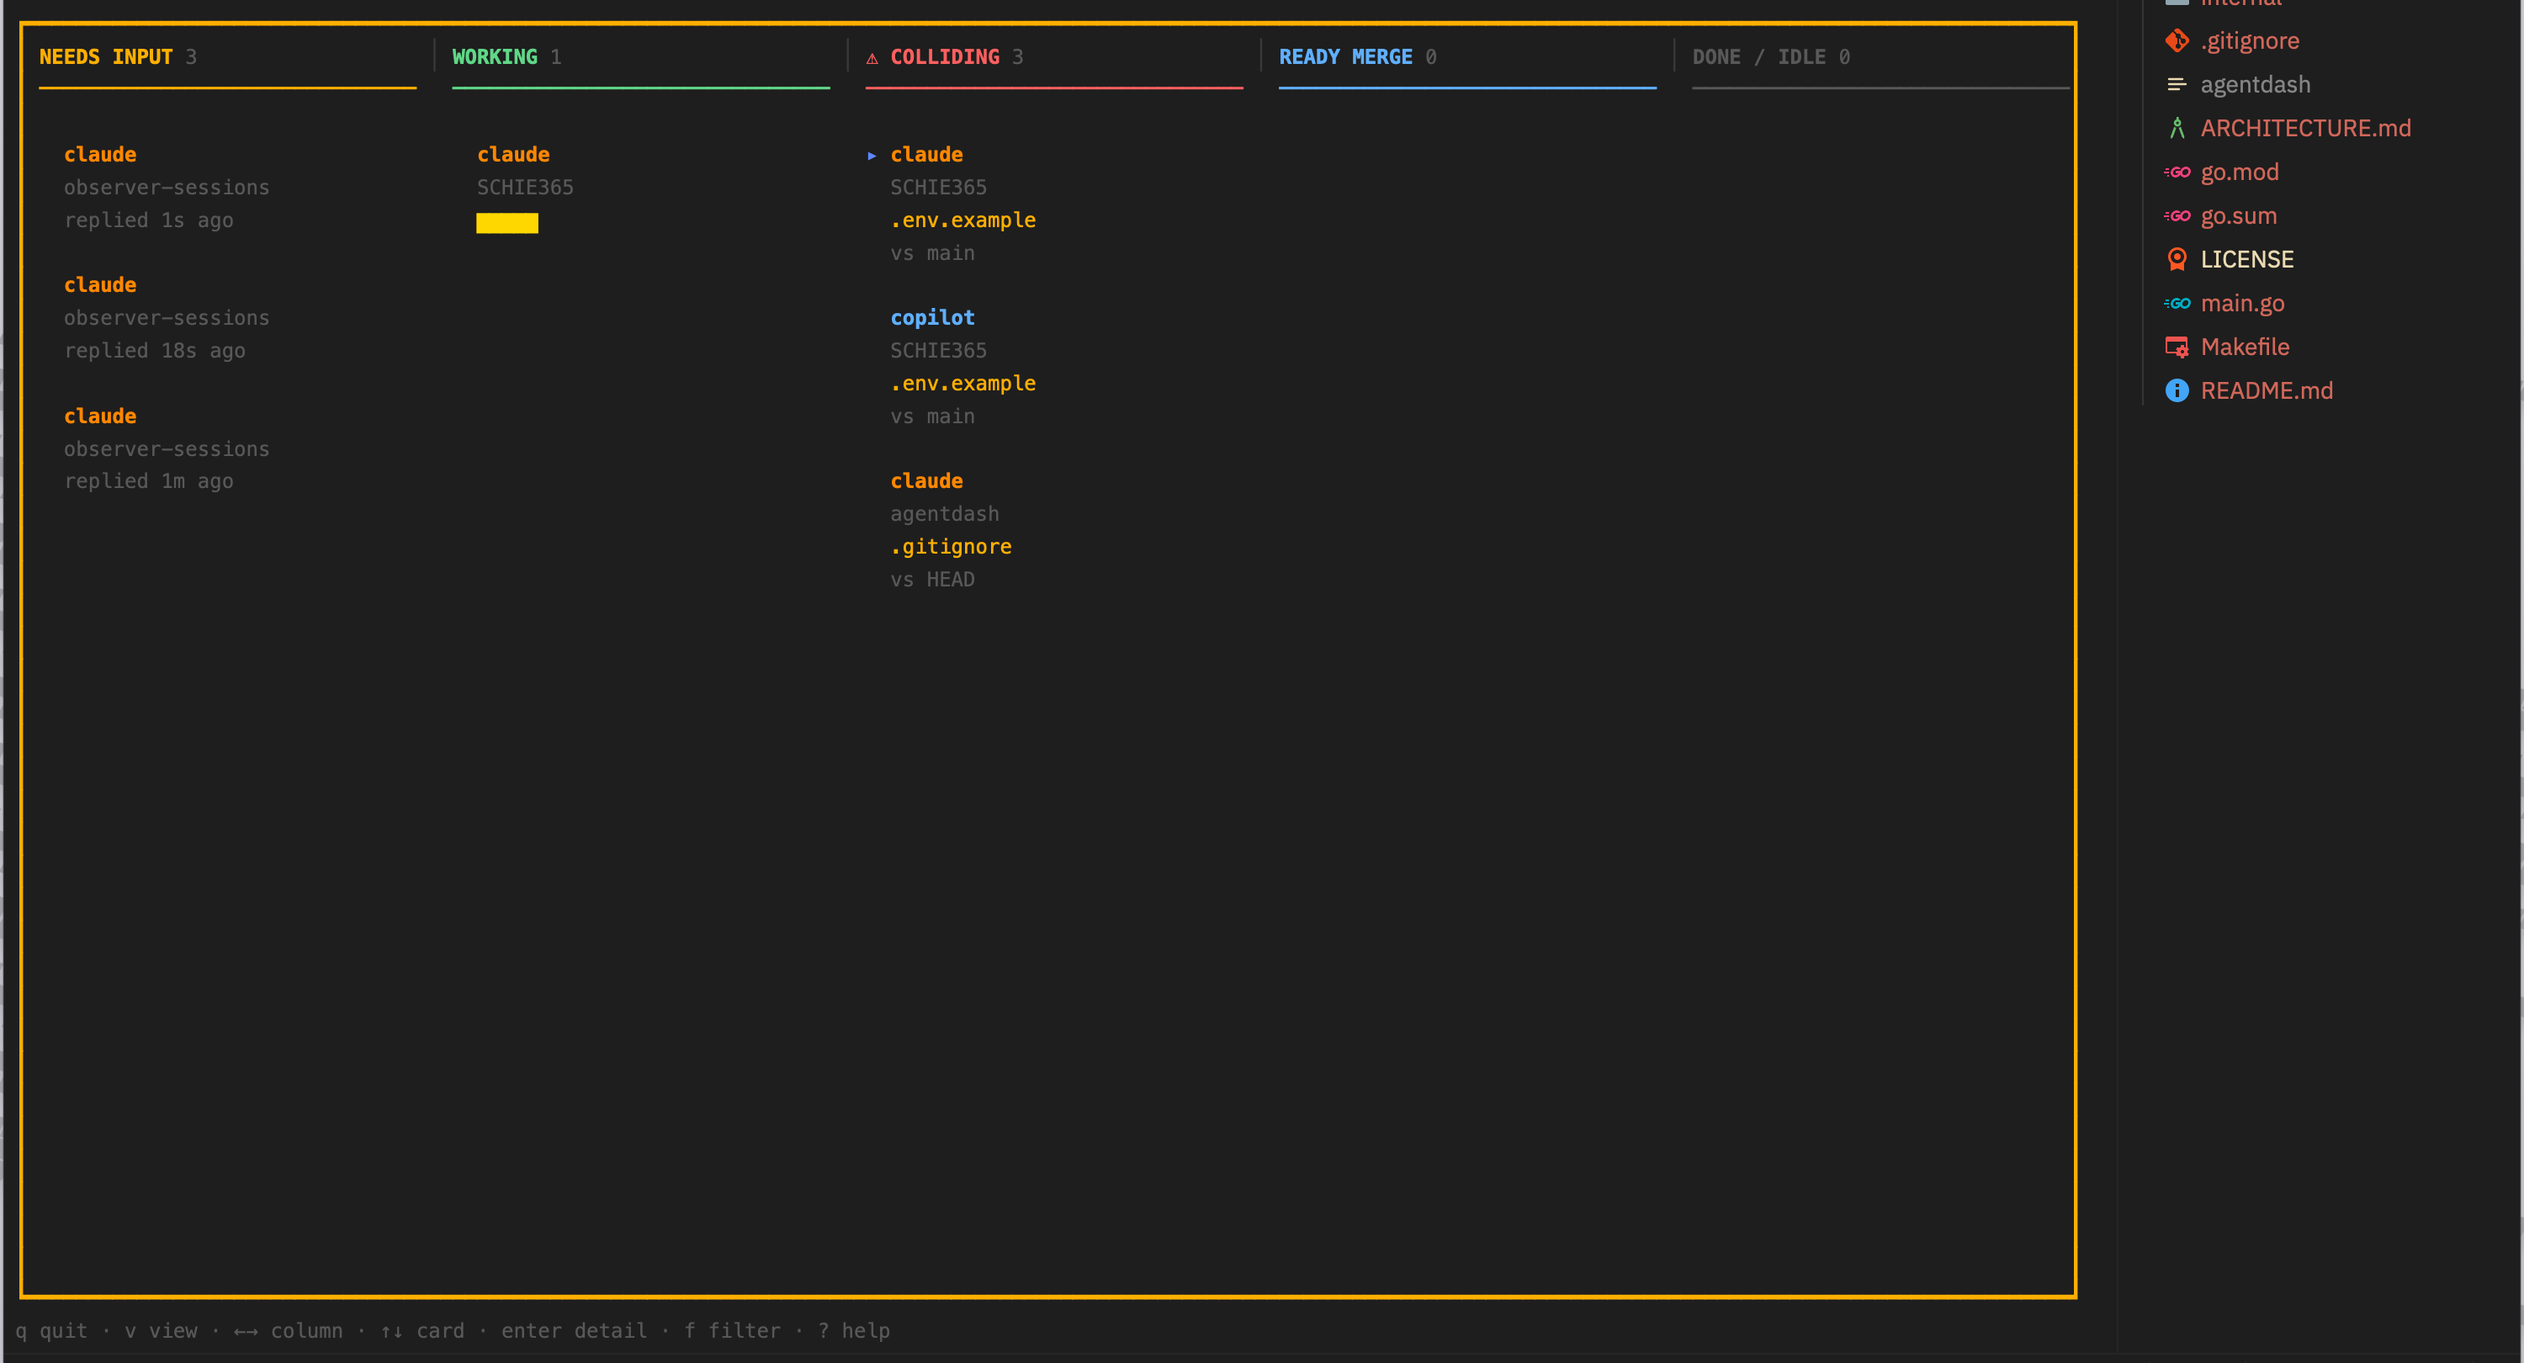
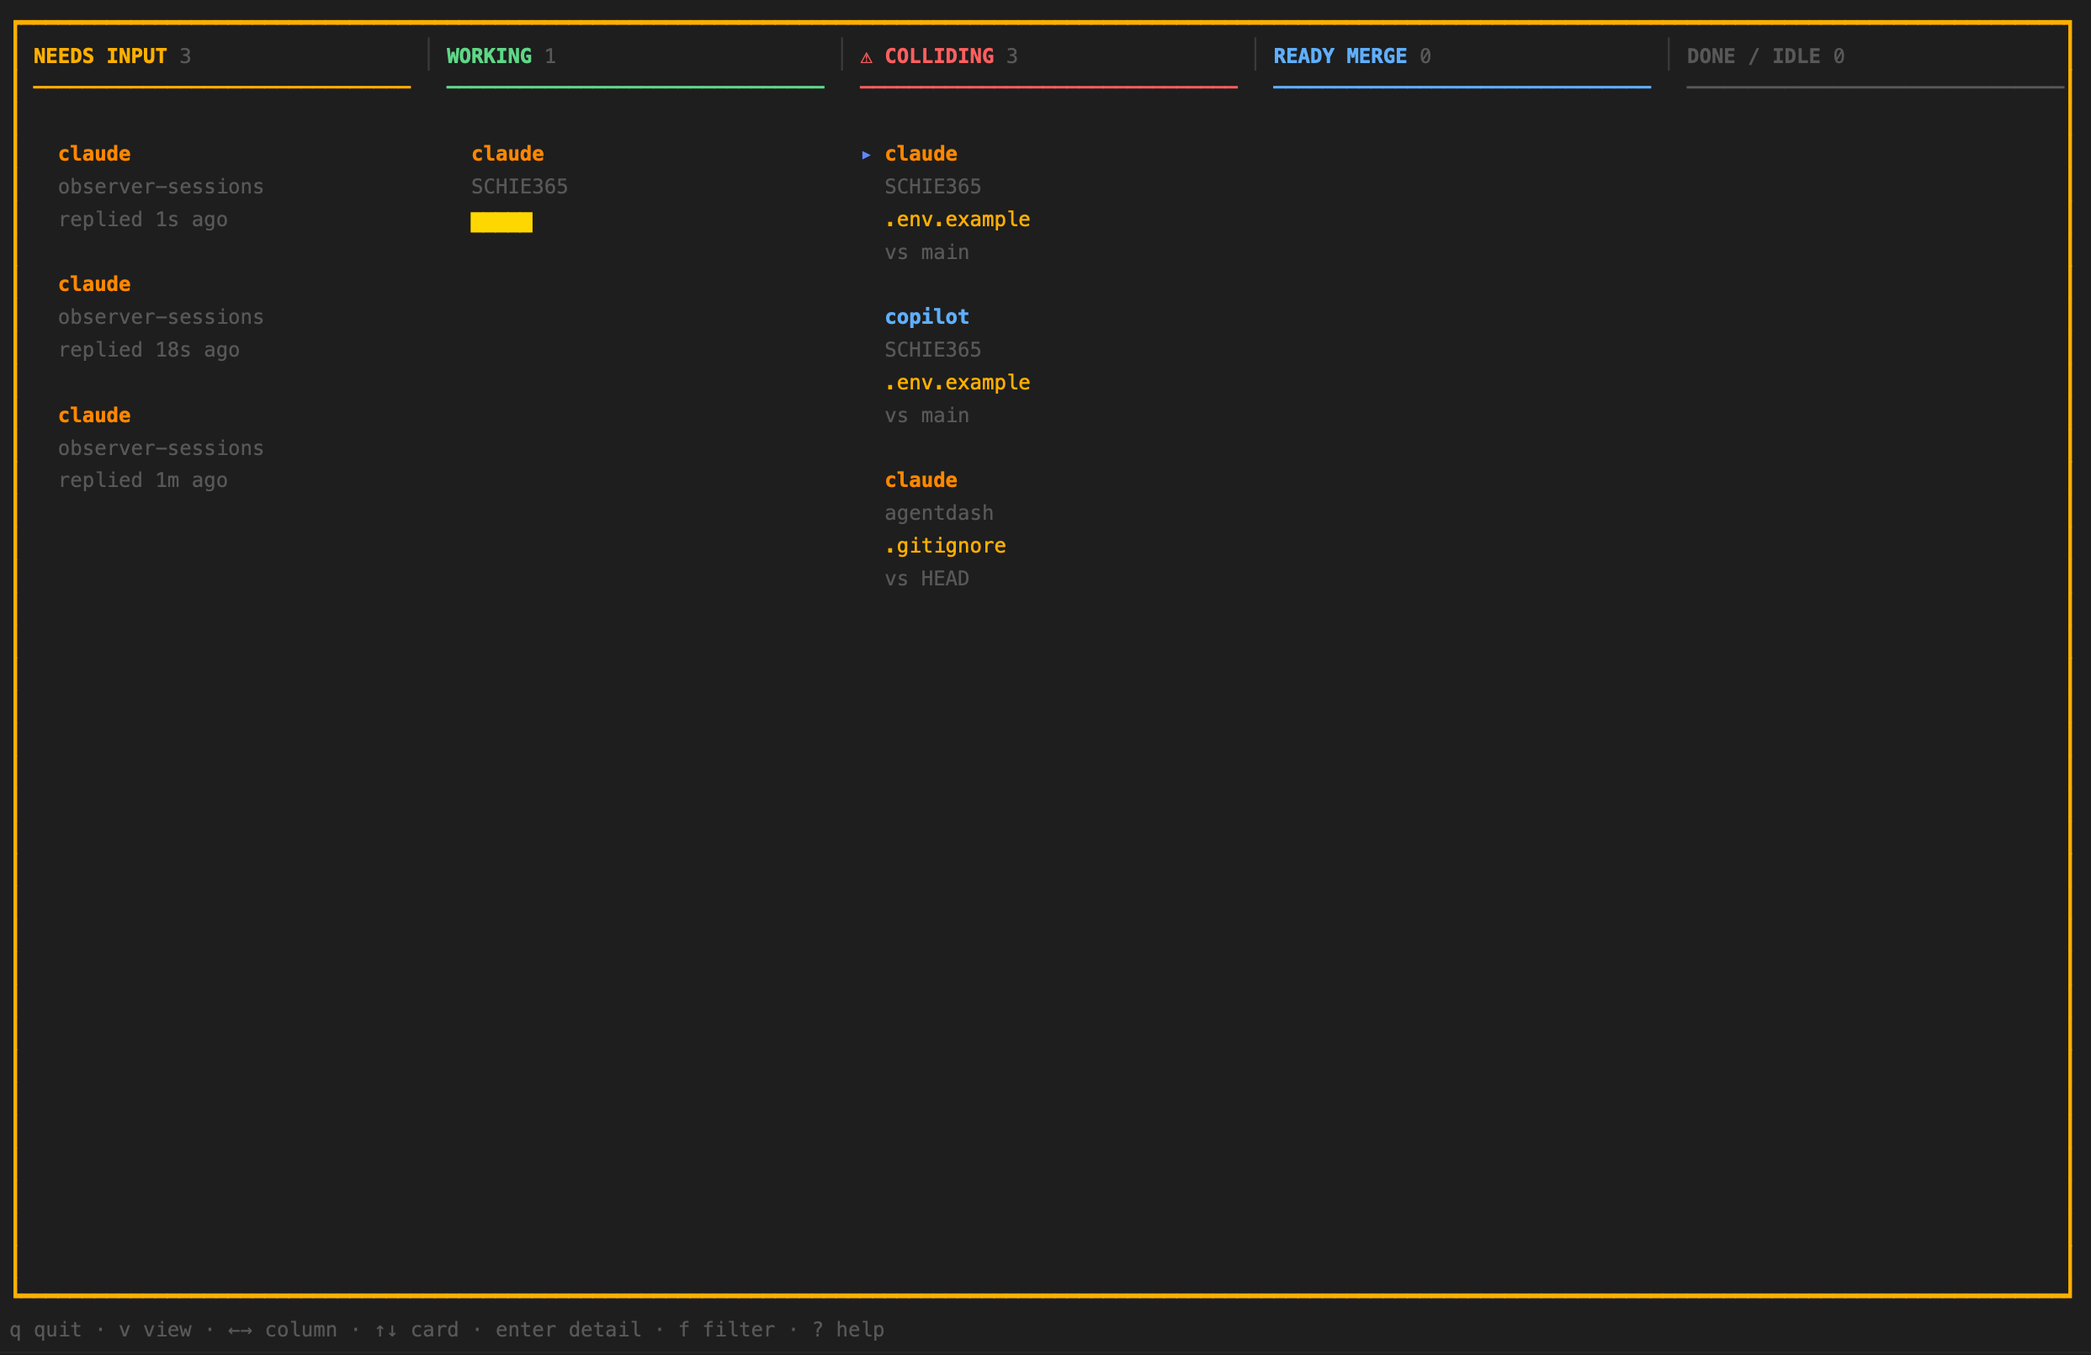
docs: remove references to similar tools; crop screenshots
Strip all mentions of comparable/observer tools (lazyagent, Claude Squad,
agent-deck, lazygit) from README, ARCHITECTURE, and source comments —
including the positioning comparison table, the prior-art credits section,
and the optional lazygit launch keybinding in the design doc. Comments now
describe intent on their own terms.

Also updates the Fleet/Board screenshots to cropped versions.

diff --git a/internal/tui/view.go b/internal/tui/view.go
@@ -739,7 +739,7 @@ func (m model) renderEmptyState(width, bodyHeight int) string {
 }
 
 // renderHeader draws the full-width banner: brand, session count, filter, and
-// time window — lazyagent's purple title bar.
+// time window in a purple title bar.
 func (m model) renderHeader() string {
 	brandStyle := lipgloss.NewStyle().Bold(true).Foreground(lipgloss.Color("231")).Background(colAccent).Padding(0, 1)
 	metaStyle := lipgloss.NewStyle().Foreground(lipgloss.Color("231")).Background(lipgloss.Color("60")).Padding(0, 1)
@@ -1139,7 +1139,7 @@ func (m model) logsBody(width int) string {
 		}
 		return labelStyle.Render("No conversation events found in the transcript.")
 	}
-	// Restrained label-column style (lazyagent): a muted fixed-width speaker
+	// Restrained label-column style: a muted fixed-width speaker
 	// label, with the wrapped message text aligned in a hanging indent beside
 	// it. Calm, scannable; no colored bubbles.
 	const labelW = 8
@@ -1198,7 +1198,7 @@ func terminalBody(s session.Session) string {
 
 // --- helpers ---
 
-// kvLabelWidth aligns all detail values to one column, lazyagent-style.
+// kvLabelWidth aligns all detail values to one column.
 const kvLabelWidth = 11
 
 func kv(k, v string) string {
@@ -1206,7 +1206,7 @@ func kv(k, v string) string {
 }
 
 // section renders a section title followed by a faint full-width rule and a
-// blank line of breathing room, for a calm lazyagent-style detail panel.
+// blank line of breathing room, for a calm, readable detail panel.
 func section(title string, width int) string {
 	rule := width - 2
 	if rule < 0 {
@@ -1228,8 +1228,8 @@ func writeLines(b *strings.Builder, style lipgloss.Style, lines ...string) {
 	}
 }
 
-// activityColor maps each fine-grained state to a color, following lazyagent's
-// convention of a distinct hue per state so the list reads at a glance.
+// activityColor maps each fine-grained state to a color — a distinct hue per
+// state so the list reads at a glance.
 func activityColor(a agent.Activity) lipgloss.Color {
 	switch a {
 	case agent.ActivityThinking:

diff --git a/internal/agent/codex/codex.go b/internal/agent/codex/codex.go
@@ -282,7 +282,7 @@ func headLines(path string, n int) ([]string, error) {
 
 // ComputeMetrics implements agent.Metricser. Codex rollouts record message
 // turns and tool/exec calls but do NOT include token counts, so tokens/cost
-// are left zero (shown as unavailable, like lazyagent does for such agents).
+// are left zero (shown as unavailable for such agents).
 func (a *Adapter) ComputeMetrics(sourceFile string) (agent.Metrics, error) {
 	f, err := os.Open(sourceFile)
 	if err != nil {

diff --git a/internal/agent/agent.go b/internal/agent/agent.go
@@ -17,8 +17,8 @@ import (
 )
 
 // Activity is the live state of an agent session, classified from the tail of
-// its transcript. The fine-grained states mirror the vocabulary popularized by
-// lazyagent so that a glance at the list tells you what each agent is doing.
+// its transcript. The fine-grained states give the list a consistent vocabulary
+// so that a glance tells you what each agent is doing.
 type Activity string
 
 const (

diff --git a/README.md b/README.md
@@ -21,9 +21,9 @@ When you run several agents in parallel (each in its own git worktree), the thin
 that ruins your day is two agents editing the same file. AgentDash is built around
 that problem:
 
-- **Monitors all your agents** from one dashboard, observe-only (like lazyagent).
+- **Monitors all your agents** from one dashboard, observe-only.
 - **Correlates** each agent to its git worktree by matching the agent's working
-  directory to the worktree path — so you see live activity *and* concrete git
+  directory to the worktree path — so you see live activity _and_ concrete git
   output side by side.
 - **Cross-worktree collision detection** — flags when two agents have touched the
   same file, before you hit a merge conflict.
@@ -39,14 +39,14 @@ that problem:
 
 ## Supported agents
 
-| Agent | Session source | Status |
-| --- | --- | --- |
-| Claude Code | `~/.claude/projects/<slug>/<id>.jsonl` | ✅ verified |
-| GitHub Copilot CLI | `~/.copilot/session-state/<id>/` (`COPILOT_HOME`) | ✅ verified |
-| Codex CLI | `~/.codex/sessions/…` (`CODEX_HOME`) | ✅ verified |
-| opencode | `~/.local/share/opencode/…` (`OPENCODE_DATA_DIR`) | ⚠ from source schema, not live-tested |
-| Kimi CLI | `~/.kimi-code/…` (`KIMI_CODE_HOME`) | ⚠ tolerant parser, not live-tested |
-| any other | running process (name + working dir) | ✅ generic process-scan fallback |
+| Agent              | Session source                                    | Status                                 |
+| ------------------ | ------------------------------------------------- | -------------------------------------- |
+| Claude Code        | `~/.claude/projects/<slug>/<id>.jsonl`            | ✅ verified                            |
+| GitHub Copilot CLI | `~/.copilot/session-state/<id>/` (`COPILOT_HOME`) | ✅ verified                            |
+| Codex CLI          | `~/.codex/sessions/…` (`CODEX_HOME`)              | ✅ verified                            |
+| opencode           | `~/.local/share/opencode/…` (`OPENCODE_DATA_DIR`) | ⚠ from source schema, not live-tested |
+| Kimi CLI           | `~/.kimi-code/…` (`KIMI_CODE_HOME`)               | ⚠ tolerant parser, not live-tested    |
+| any other          | running process (name + working dir)              | ✅ generic process-scan fallback       |
 
 Adapters marked "not live-tested" were built from each tool's documented or
 source schema but could not be verified against a local install; their field
@@ -100,7 +100,7 @@ activity and git status — refreshing every 2 seconds.
 ### Activity states
 
 Each session is tagged with a color-coded activity state, inferred from the tail
-of its transcript (the same vocabulary lazyagent uses):
+of its transcript:
 
 `thinking` · `reading` · `writing` · `running` · `searching` · `browsing` ·
 `spawning` · `compacting` · `waiting` · `idle` · `exited`
@@ -111,21 +111,21 @@ both map to `writing`.
 
 ### Keybindings
 
-| Key | Action |
-| --- | --- |
-| `q` / `ctrl+c` | quit |
-| `r` | refresh now |
-| `↑`/`k`, `↓`/`j` | navigate sessions (or scroll, when detail focused) |
-| `tab` | switch focus between list and detail |
-| `f` | cycle activity filter (all → active → waiting → idle) |
-| `/` | search sessions by path / branch / agent |
-| `+` / `-` | widen / narrow the time window (±10 min) |
-| `l` | conversation / recent activity |
-| `d` | full git diff |
-| `s` | git status |
-| `c` | cross-worktree collisions |
-| `t` | terminal attach hint |
-| `?` | help |
+| Key              | Action                                                |
+| ---------------- | ----------------------------------------------------- |
+| `q` / `ctrl+c`   | quit                                                  |
+| `r`              | refresh now                                           |
+| `↑`/`k`, `↓`/`j` | navigate sessions (or scroll, when detail focused)    |
+| `tab`            | switch focus between list and detail                  |
+| `f`              | cycle activity filter (all → active → waiting → idle) |
+| `/`              | search sessions by path / branch / agent              |
+| `+` / `-`        | widen / narrow the time window (±10 min)              |
+| `l`              | conversation / recent activity                        |
+| `d`              | full git diff                                         |
+| `s`              | git status                                            |
+| `c`              | cross-worktree collisions                             |
+| `t`              | terminal attach hint                                  |
+| `?`              | help                                                  |
 
 Detail/diff/status/conversation overlays are scrollable with `↑`/`↓`.
 
@@ -134,14 +134,14 @@ Detail/diff/status/conversation overlays are scrollable with `↑`/`↓`.
 `~/.agentdash/config.yaml`:
 
 ```yaml
-repos:                     # repositories whose worktrees are scanned
-  - ~/code/my-project
-bases:                     # optional per-repo base branch for ahead/behind
-  /abs/path/to/repo: develop
-agents:                    # optional: restrict to specific adapters
-  - claude
-  - copilot
-refresh_seconds: 2         # TUI poll interval
+repos: # repositories whose worktrees are scanned
+     - ~/code/my-project
+bases: # optional per-repo base branch for ahead/behind
+     /abs/path/to/repo: develop
+agents: # optional: restrict to specific adapters
+     - claude
+     - copilot
+refresh_seconds: 2 # TUI poll interval
 ```
 
 You can relocate AgentDash's own data directory with `AGENTDASH_HOME`.
@@ -153,10 +153,10 @@ drop a JSON file in `~/.agentdash/sessions/`, keyed by worktree path:
 
 ```json
 {
-  "session_id": "my-feature",
-  "worktree_path": "/abs/path/to/worktree",
-  "task": "wire up oauth login flow",
-  "notes": "remember to run migrations"
+     "session_id": "my-feature",
+     "worktree_path": "/abs/path/to/worktree",
+     "task": "wire up oauth login flow",
+     "notes": "remember to run migrations"
 }
 ```
 
@@ -199,19 +199,6 @@ internal/correlate    cwd↔worktree join + collision detection
 internal/session      unified session model + optional JSON overlay
 internal/tui          Bubble Tea dashboard
 ```
-
-## Prior art & credit
-
-AgentDash is an independent implementation inspired by several excellent tools, and
-takes no code from them:
-
-- **[lazyagent](https://github.com/illegalstudio/lazyagent)** — the observe-don't-launch behavior.
-- **[Claude Squad](https://github.com/smtg-ai/claude-squad)** — the left-hand session list.
-- **[agent-deck](https://github.com/asheshgoplani/agent-deck)** — the right-hand information deck and status glyphs.
-- **[lazygit](https://github.com/jesseduffield/lazygit)** — the overall TUI feel.
-
-AgentDash's distinct angle is the **git-review correlation**: monitoring agents *and*
-their worktrees together, with cross-worktree collision detection.
 
 ## License
 

diff --git a/ARCHITECTURE.md b/ARCHITECTURE.md
@@ -10,32 +10,27 @@
 
 ## 1. Positioning & differentiator
 
-| | agent-deck / Claude Squad | lazyagent | **AgentDash** |
-| --- | --- | --- | --- |
-| Role | Launcher + orchestrator | Observer | **Observer** |
-| Spawns agents? | Yes (tmux panes) | No | **No** |
-| Primary data source | tmux + transcripts | agent transcripts | **agent transcripts ⨝ git worktrees** |
-| Headline answer | "agent is busy/waiting" | "agent is busy" | **"work done + mergeable + cross-agent collisions"** |
-| Storage | SQLite | files | flat JSON + config YAML |
+AgentDash is an **observer**, not a launcher: it never spawns agents (no tmux
+panes, no orchestration). You start your agents however you like; AgentDash reads
+their state and the git worktrees they work in.
 
-**The wedge:** AgentDash is a *correlation engine*. Two independent collectors —
-one watching each agent's own session files, one scanning git worktrees — are
-**joined on the filesystem path** (`agent.cwd` ↔ `worktree.path`). That join lets
-AgentDash display, per session, both the live agent activity **and** the concrete
-git outcome (diff stat, commits, ahead/behind, **mergeability**, and
-**cross-worktree file collisions** — a feature no incumbent has).
+**The core design:** AgentDash is a *correlation engine*. Two independent
+collectors — one watching each agent's own session files, one scanning git
+worktrees — are **joined on the filesystem path** (`agent.cwd` ↔ `worktree.path`).
+That join lets AgentDash display, per session, both the live agent activity
+**and** the concrete git outcome: diff stat, commits, ahead/behind,
+**mergeability**, and **cross-worktree file collisions** — two agents about to
+edit the same file are flagged before it becomes a merge conflict.
 
-**Prior art (credited, not copied):** UI inspiration from agent-deck (right-hand
-information deck), Claude Squad (left-hand session list), and lazyagent
-(observe-don't-launch behavior). AgentDash is an independent Go implementation;
-no code is taken from these projects.
+Storage is deliberately minimal: flat JSON files plus a config YAML, no daemon and
+no database.
 
 ---
 
 ## 2. Language & stack — **Go**
 
 - **TUI:** Bubble Tea (`charmbracelet/bubbletea`) + Bubbles (list/viewport/help) +
-  Lip Gloss (layout/style). Best-in-class for the lazygit aesthetic.
+  Lip Gloss (layout/style). Best-in-class for a polished terminal aesthetic.
 - **CLI:** Cobra.
 - **Config:** YAML (`~/.agentdash/config.yaml`).
 - **State:** flat JSON files (no daemon, no DB) per the MVP constraint.
@@ -131,7 +126,7 @@ type AgentAdapter interface {
 **Activity classification (per agent):** read only the *tail* of the transcript.
 `Working` = last event is an in-progress assistant/tool turn and mtime < ~10s;
 `Waiting` = last event awaits user input; `Idle` = alive but stale; `Unknown` =
-process-scan only. Glyphs mirror agent-deck's vocabulary: `● ◐ ○ ✕`.
+process-scan only. Status glyphs: `● ◐ ○ ✕`.
 
 ### 3.2 Worktree collector — agent-agnostic git truth
 
@@ -191,7 +186,7 @@ required — a session shows up purely from being observed.
 
 ---
 
-## 4. TUI layout (Claude Squad list + agent-deck deck + lazygit feel)
+## 4. TUI layout (session list + detail deck)
 
 ```
 ┌─ Sessions ───────────┐┌─ Detail ──────────────────────────────────┐
@@ -207,16 +202,16 @@ required — a session shows up purely from being observed.
 │                      ││ ⚠ collides with codex on internal/util.go  │
 │                      ││ last commit  a1b2c3d  "add token store"    │
 └──────────────────────┘└────────────────────────────────────────────┘
- q quit  r refresh  ↵ detail  d diff  s status  c conflicts  o open  g lazygit  ? help
+ q quit  r refresh  ↵ detail  d diff  s status  c conflicts  o open  ? help
 ```
 
 - **Left:** session list (Bubbles `list`), status glyph + agent + branch; collision
   badge inline. Sorted by activity then churn.
-- **Right top:** session detail deck (agent-deck style).
+- **Right top:** session detail deck.
 - **Right middle:** git status + diff stat + **churn sparkline** (rolling history).
 - **Right bottom:** collisions + commits/activity.
-- **Keys:** `q r ↵ d s c o g ?` — `c` = conflict/collision report (new), `o` = open
-  worktree in `$EDITOR`, `g` = launch `lazygit` scoped to the worktree.
+- **Keys:** `q r ↵ d s c o ?` — `c` = conflict/collision report (new), `o` = open
+  worktree in `$EDITOR`.
 
 ---
 
